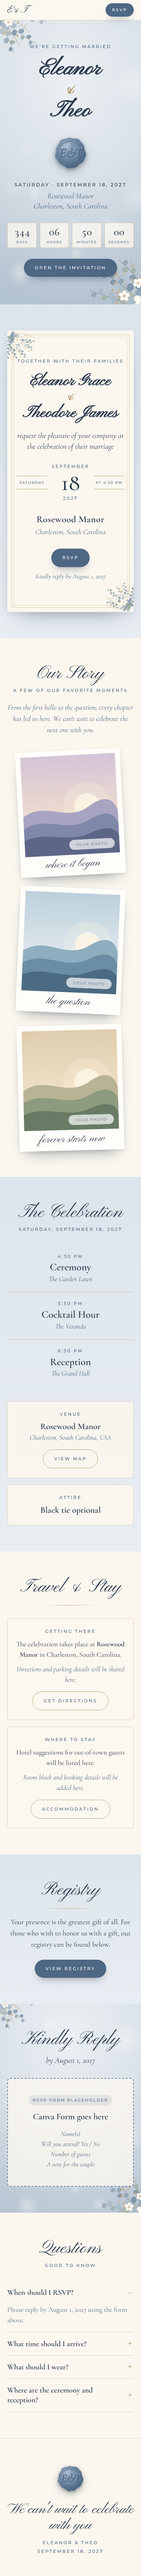
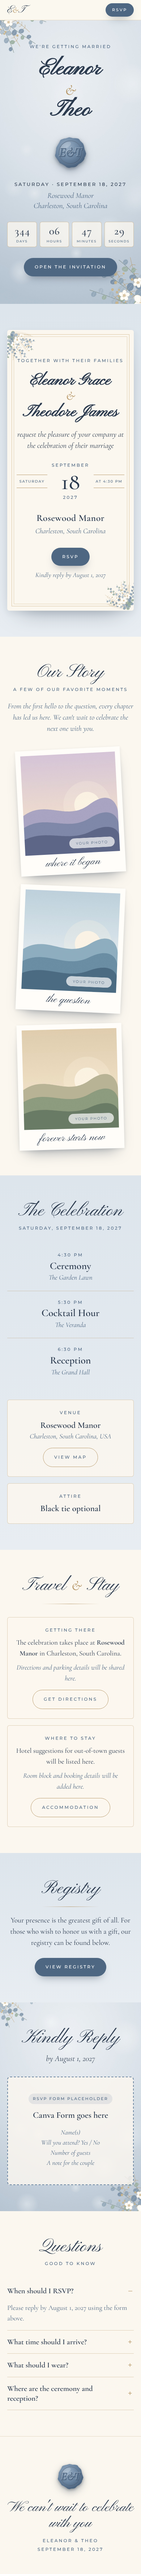
G020: website'a ampersand kuralı uygulandı (Pinyon & yerine Cormorant italik), önizlemeler yenilendi
Claude-Session: https://claude.ai/code/session_01DggDrVhqkPM3r57J4JpXEN

diff --git a/collections/02_Dusty_Blue/website/index.html b/collections/02_Dusty_Blue/website/index.html
@@ -102,7 +102,10 @@
   .hero-inner { position: relative; z-index: 1; width: 100%; }
   .hero .kicker { margin-bottom: 18px; }
   .hero-names { font-family: var(--font-script); font-size: 64px; line-height: 1.05; color: var(--ink); }
-  .hero-names .amp { display: block; color: var(--gold); font-size: .7em; line-height: 1; margin: 2px 0; }
+  /* Ampersand kuralı (print/README.md): Pinyon '&' glifi 'v' gibi okunur -> script başlıklarda & = Cormorant italik, altın, ~0.72em */
+  .amp, .amp-inline { font-family: var(--font-serif); font-style: italic; font-weight: 500; color: var(--gold); }
+  .amp-inline { font-size: .72em; }
+  .hero-names .amp { display: block; font-size: .62em; line-height: 1; margin: 6px 0 2px; }
   .seal { position: relative; width: 112px; height: 112px; margin: 26px auto 22px; filter: drop-shadow(0 8px 10px rgba(30,45,65,.3)); }
   .seal img { width: 100%; height: 100%; }
   .seal span {
@@ -138,7 +141,7 @@
   .invite-card .bot-tl { left: 0; top: 0; }
   .invite-card .bot-br { right: 0; bottom: 0; }
   .invite-full { font-family: var(--font-script); font-size: 46px; line-height: 1.1; margin-top: 20px; }
-  .invite-full .amp { display: block; color: var(--gold); font-size: .75em; }
+  .invite-full .amp { display: block; font-size: .72em; line-height: 1.1; }
   .invite-copy { font-style: italic; font-size: 21px; line-height: 1.45; margin: 22px auto 0; max-width: 420px; }
   .datebox { display: grid; grid-template-columns: 1fr auto 1fr; align-items: center; gap: 12px; margin: 30px auto 0; max-width: 420px; }
   .datebox .side { white-space: nowrap; font-size: 10px; letter-spacing: .18em; padding: 10px 0; border-top: 1px solid var(--gold); border-bottom: 1px solid var(--gold); }
@@ -243,7 +246,7 @@
   @media (min-width: 1024px) {
     .nav { display: flex; gap: 26px; }
     .hero-names { font-size: 120px; }
-    .hero-names .amp { display: inline; font-size: .62em; margin: 0 .12em; }
+    .hero-names .amp { display: inline; font-size: .56em; margin: 0 .14em; }
     .hero .bot-tl { width: 420px; }
     .hero .bot-br { width: 440px; }
     .hero-date { font-size: 15px; }
@@ -262,7 +265,7 @@
 
 <header class="site-header">
   <div class="wrap">
-    <a class="monogram" href="#top" aria-label="Back to top">E&amp;T</a>
+    <a class="monogram" href="#top" aria-label="Back to top">E<span class="amp-inline">&amp;</span>T</a>
     <nav class="nav" aria-label="Sections">
       <a href="#story">Our Story</a>
       <a href="#details">Details</a>
@@ -388,7 +391,7 @@
   <!-- 5 · TRAVEL & STAY — content kaydında ayrıntı yok; şablon metni + urls.map / urls.accommodation -->
   <section class="section paper" id="travel" data-section="travel" data-optional="travel_stay">
     <div class="wrap">
-      <h2 class="section-title">Travel &amp; Stay</h2>
+      <h2 class="section-title">Travel <span class="amp-inline">&amp;</span> Stay</h2>
       <hr class="rule">
       <div class="two-col">
         <div class="info-card text-block">

diff --git a/collections/02_Dusty_Blue/website/canva_import.html b/collections/02_Dusty_Blue/website/canva_import.html
@@ -35,6 +35,8 @@
   .abs { position: absolute; }
 
   .caps { font-family: var(--sans); font-weight: 500; text-transform: uppercase; letter-spacing: .3em; font-size: 16px; color: var(--deep); }
+  /* Ampersand kuralı: script başlıklarda & = Cormorant Garamond italik, altın, ~0.72em (Pinyon '&' 'v' gibi okunur) */
+  .amp { font-family: var(--serif); font-style: italic; font-weight: 500; color: var(--gold); font-size: .72em; }
   .script { font-family: var(--script); font-weight: 400; line-height: 1.1; color: var(--ink); }
   .it { font-style: italic; }
   .title { font-family: var(--script); font-size: 104px; line-height: 1.1; color: var(--ink); }
@@ -58,7 +60,7 @@
   <img class="abs" src="../assets/layers/botanical_br.png" alt="" style="right:-80px;bottom:-80px;width:460px;height:460px">
   <div class="abs" style="left:0;top:120px;width:1366px">
     <p class="caps">We're getting married</p>
-    <h1 class="script" style="font-size:140px;margin-top:26px">Eleanor <span style="color:var(--gold);font-size:90px">&amp;</span> Theo</h1>
+    <h1 class="script" style="font-size:140px;margin-top:26px">Eleanor <span class="amp" style="font-size:80px">&amp;</span> Theo</h1>
     <div class="seal" style="margin-top:28px">
       <img src="../assets/layers/wax_seal.png" alt="">
       <div class="mono">E&amp;T</div>
@@ -88,7 +90,7 @@
   <div class="abs" style="left:333px;top:170px;width:700px">
     <p class="caps">Together with their families</p>
     <h2 class="script" style="font-size:76px;margin-top:30px">Eleanor Grace</h2>
-    <p class="script" style="font-size:54px;color:var(--gold);line-height:1">&amp;</p>
+    <p class="script" style="font-size:54px;line-height:1"><span class="amp">&amp;</span></p>
     <h2 class="script" style="font-size:76px">Theodore James</h2>
     <p class="it" style="font-size:27px;line-height:1.45;margin:28px auto 0;width:520px">request the pleasure of your company at the celebration of their marriage</p>
     <div style="display:flex;align-items:center;justify-content:center;gap:22px;margin-top:36px">
@@ -163,7 +165,7 @@
 <!-- ============ PAGE 5 · TRAVEL & STAY (1366×720) ============ -->
 <section class="page ivory" data-document-role="page" data-section="travel" style="height:720px">
   <div class="abs" style="left:0;top:80px;width:1366px">
-    <h2 class="title">Travel &amp; Stay</h2>
+    <h2 class="title">Travel <span class="amp">&amp;</span> Stay</h2>
     <div class="rule"></div>
   </div>
   <div class="abs card" style="left:263px;top:330px;width:410px;height:320px;padding:34px 34px 0">

diff --git a/gorevler/G020-v01-website-kaynak.md b/gorevler/G020-v01-website-kaynak.md
@@ -47,6 +47,8 @@ Görseller yalnız `../assets/layers/` (kodla çizilmiş katmanlar: bg_mist, bot
 - İçerik: `tools/validate_content.py` canonical metinlerinin hepsi (Eleanor & Theo, E&T, Saturday, September 18, 2027, 4:30/5:30/6:30 PM, Rosewood Manor, Charleston, South Carolina, The Garden Lawn/The Veranda/The Grand Hall, August 1, 2027, Black tie optional, tam isimler, host_line) iki dosyada da görünür metinde bulundu.
 - Ekran görüntülerine bakılıp düzeltildi: polaroid foto oranı (height attr), mobilde kart botaniklerinin metne binmesi, mekân/kapanış satırlarının kötü kırılması, masaüstünde isimlerin tek satır olması.
 
+- Sonradan: entegratörün ampersand kuralı (Pinyon `&` → Cormorant italik altın `.amp`) iki dosyaya da uygulandı; önizlemeler yeniden üretildi, kontroller yine geçti.
+
 **Test edilmedi:** Canva'ya import (G021), Canva Form/RSVP veri akışı, website yayını, Canva'da canlı sayaç, gerçek telefon tarayıcıları (yalnız Chromium viewport emülasyonu), erişilebilirlik denetimi.
 
 **Notlar / entegratöre:**

diff --git a/collections/02_Dusty_Blue/website/README.md b/collections/02_Dusty_Blue/website/README.md
@@ -53,6 +53,8 @@ görsel yok). Font dosyası yok.
 4. Dekor görselleri `position:absolute` + bölüm `overflow:hidden` — taşma yatay kaydırma yaratmaz. `body { overflow-x:hidden }`
    güvenlik ağıdır; test `document.documentElement.scrollWidth` ile yapılır.
 5. Metin görsele pişirilmez: mühür monogramı (`E&T`), polaroid başlıkları, tarih kutusu hepsi HTML metnidir.
+6. **Ampersand kuralı** (`print/README.md`, entegratör): Pinyon Script'in `&` glifi "v" gibi okunur. Script başlık/isimlerdeki
+   `&` her zaman `<span class="amp">&amp;</span>` (tablet/masaüstü satır içi: `amp-inline`) = Cormorant Garamond italik, altın, ~0.72em.
 
 ## Geri sayım
 
